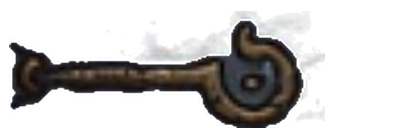
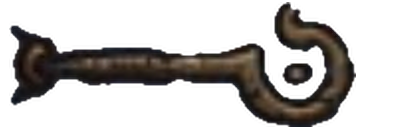
Ashen Bough IV: cut the staff out of its cloudy tile, so it has no haze and its hook is open again
The Nov 14 art import (376d703) cut Ashen Bough IV out of the owner's contact sheet as if its tile were a flat
colour. It is a cloudy tile. A cloud has the tile's own hue and is never darker, but the cut-out keeps pixels that
are "moderately different and not darker" as smoke, so the clouds became a grey haze (the smudge at the staff's upper
right), the fit scaled the staff down to the haze's bounding box (294 px wide, against the 347 px art box of the
sprite it replaced), and the clouds inside the hook's ring kept it filled in as a slate-blue disc.

import_sheet_art.py gets CLOUDY_TILES, holding only Ashen Bough IV: for a tile named there a pixel whose hue is within
14 of the tile's, and which is neither darker than an outline nor a highlight, is tile colour. ART_BOX_OVERRIDE fits
the item into the art box of the sprite it replaced (9, 0, 356, 128) instead of the box of the smudged sprite on disk.
Every other tile is cut as before: the importer run over all 99 items before and after the change gives 98
byte-identical sprites and one different, staff_1_4.

Regenerated with the documented steps: import_sheet_art.py, held_gear.py (grip 15.92, 65.0; Titan growth max still
1.826), approvals.py apply. The hook is open, so the old secondary region (the filled disc) is gone and the secondary
mask with it; 78 of the 99 gear items have a primary mask only, the other Ashen Bough tiers included.
[…]

diff --git a/tools/modular_assets/import_sheet_art.py b/tools/modular_assets/import_sheet_art.py
@@ -4,7 +4,8 @@ The owner supplied the updated art for all 99 held and store gear items as scree
 (`docs/modular/source_photos/`): a grid of named tiles ("Oaken Ward I", "Crystal Shard", ...), each with two drawings
 side by side (the original and a recoloured example) on a flat dark tile colour. This tool finds the tile grid in each
 photo, cuts the chosen drawing of every tile out of the tile colour, and fits it into the existing sprite's canvas, so
-filenames, canvas sizes, catalog ids and the visible-art box stay as they are.
+filenames, canvas sizes, catalog ids and the visible-art box stay as they are. A few tiles are cloudy rather than flat
+(`CLOUDY_TILES`): there a cloud counts as tile colour, not as smoke.
 
     python3 -I tools/modular_assets/import_sheet_art.py                    # plan only: source photo and upscale per item
     python3 -I tools/modular_assets/import_sheet_art.py --write            # replace the 99 sprites in place
@@ -250,10 +251,24 @@ WEAK_D = 80.0
 WEAK_DARKER = -8.0
 HULL_CLOSE = 8       # radius (px) of the closing that bridges gaps in an outline before its interior is filled
 
+# A few tiles on the owner's sheets are not flat: Ashen Bough IV sits on a cloudy tile. A cloud has the tile's own hue and
+# is never darker than the tile, so it is tile colour, not smoke. Read as smoke (the rule above) the clouds became a grey
+# haze beside the staff, the fit scaled the staff down to fit the haze, and the clouds inside the hook's ring kept the
+# ring filled in. For the tiles named here a pixel is also tile colour when its hue is within CLOUD_CHROMA_TOL of the
+# tile's and its luminance relative to the tile's is inside CLOUD_LUMA (not as dark as an outline, not a highlight).
+# Every other tile is cut exactly as before.
+CLOUDY_TILES = {"Ashen Bough IV"}
+CLOUD_CHROMA_TOL = 14.0
+CLOUD_LUMA = (-10.0, 70.0)
 
-def cut_out(crop: np.ndarray, bg: np.ndarray, pad: int = 4) -> np.ndarray:
+# An item whose sprite on disk is not the one it was designed to fit (the haze above shrank Ashen Bough IV's) is fitted
+# into the art box of the sprite it replaced (git 376d703^) instead of the box of the sprite that is on disk now.
+ART_BOX_OVERRIDE = {"Ashen Bough IV": (9, 0, 356, 128)}
+
+
+def cut_out(crop: np.ndarray, bg: np.ndarray, pad: int = 4, cloudy: bool = False) -> np.ndarray:
     """RGBA uint8 (padded by `pad`): solid art opaque with a smooth antialiased edge, smoke / glow partly transparent,
-    the flat tile colour transparent."""
+    the flat tile colour transparent. `cloudy` (see CLOUDY_TILES): the tile has clouds, which are tile colour too."""
     h0, w0 = crop.shape[:2]
     big = np.empty((h0 + 2 * pad, w0 + 2 * pad, 3), dtype=np.float32)
     big[:] = bg
@@ -263,14 +278,18 @@ def cut_out(crop: np.ndarray, bg: np.ndarray, pad: int = 4) -> np.ndarray:
     # JPEG noise makes a thin dark outline flicker between "solid" and "glow" pixel by pixel; classify on a lightly
     # smoothed signal so the contour is continuous.
     d_s, dl_s = gauss(d, 0.8), gauss(dl, 0.8)
-    lab = label(d <= 12, eight=False)
+    tile_like = d <= 12
+    if cloudy:
+        chroma = np.abs((big - big.mean(axis=2, keepdims=True)) - (bg - float(bg.mean()))).max(axis=2)
+        tile_like = tile_like | ((gauss(chroma, 0.8) <= CLOUD_CHROMA_TOL) & (dl_s > CLOUD_LUMA[0]) & (dl_s < CLOUD_LUMA[1]))
+    lab = label(tile_like, eight=False)
     border = border_labels(lab)
     exterior = np.isin(lab, border)
     for i in np.unique(lab):                      # enclosed tile-coloured pockets (the hole of a ring)
         if i == 0 or i in border:
             continue
         pocket = lab == i
-        if pocket.sum() >= 40 and d[pocket].max() <= 10:
+        if pocket.sum() >= 40 and (cloudy or d[pocket].max() <= 10):
             exterior |= pocket
     obj = ~exterior
     weak_candidate = (d_s < WEAK_D) & (dl_s > WEAK_DARKER)
@@ -398,7 +417,7 @@ def extract(photos: Path, verbose: bool = True) -> Dict[str, List[dict]]:
                     cx0, cy0 = max(0, bx0 - 6), max(0, by0 - 6)
                     cx1, cy1 = min(tile.shape[1], bx1 + 6), min(tile.shape[0], by1 + 6)
                     cx0, cx1 = (cx0, min(cx1, mid)) if side == "left" else (max(cx0, mid), cx1)   # not the other half
-                    rec[side] = cut_out(tile[cy0:cy1, cx0:cx1], bg)
+                    rec[side] = cut_out(tile[cy0:cy1, cx0:cx1], bg, cloudy=name in CLOUDY_TILES)
                 rec["width"] = {s: int(tight(rec[s]).shape[1]) for s in ("left", "right")}
                 found.setdefault(name, []).append(rec)
     return found
@@ -409,7 +428,8 @@ def build(item: dict, candidates: List[dict], half: str) -> Tuple[Image.Image, f
     pick = max(candidates, key=lambda c: c["width"][half])
     with Image.open(item["path"]) as cur:
         cur = cur.convert("RGBA")
-    sprite, scale = fit_into(pick[half], cur.size, opaque_bbox(cur), align=align_for(item))
+    box = ART_BOX_OVERRIDE.get(item["name"]) or opaque_bbox(cur)
+    sprite, scale = fit_into(pick[half], cur.size, box, align=align_for(item))
     return sprite, scale, pick["photo"]
 
 
